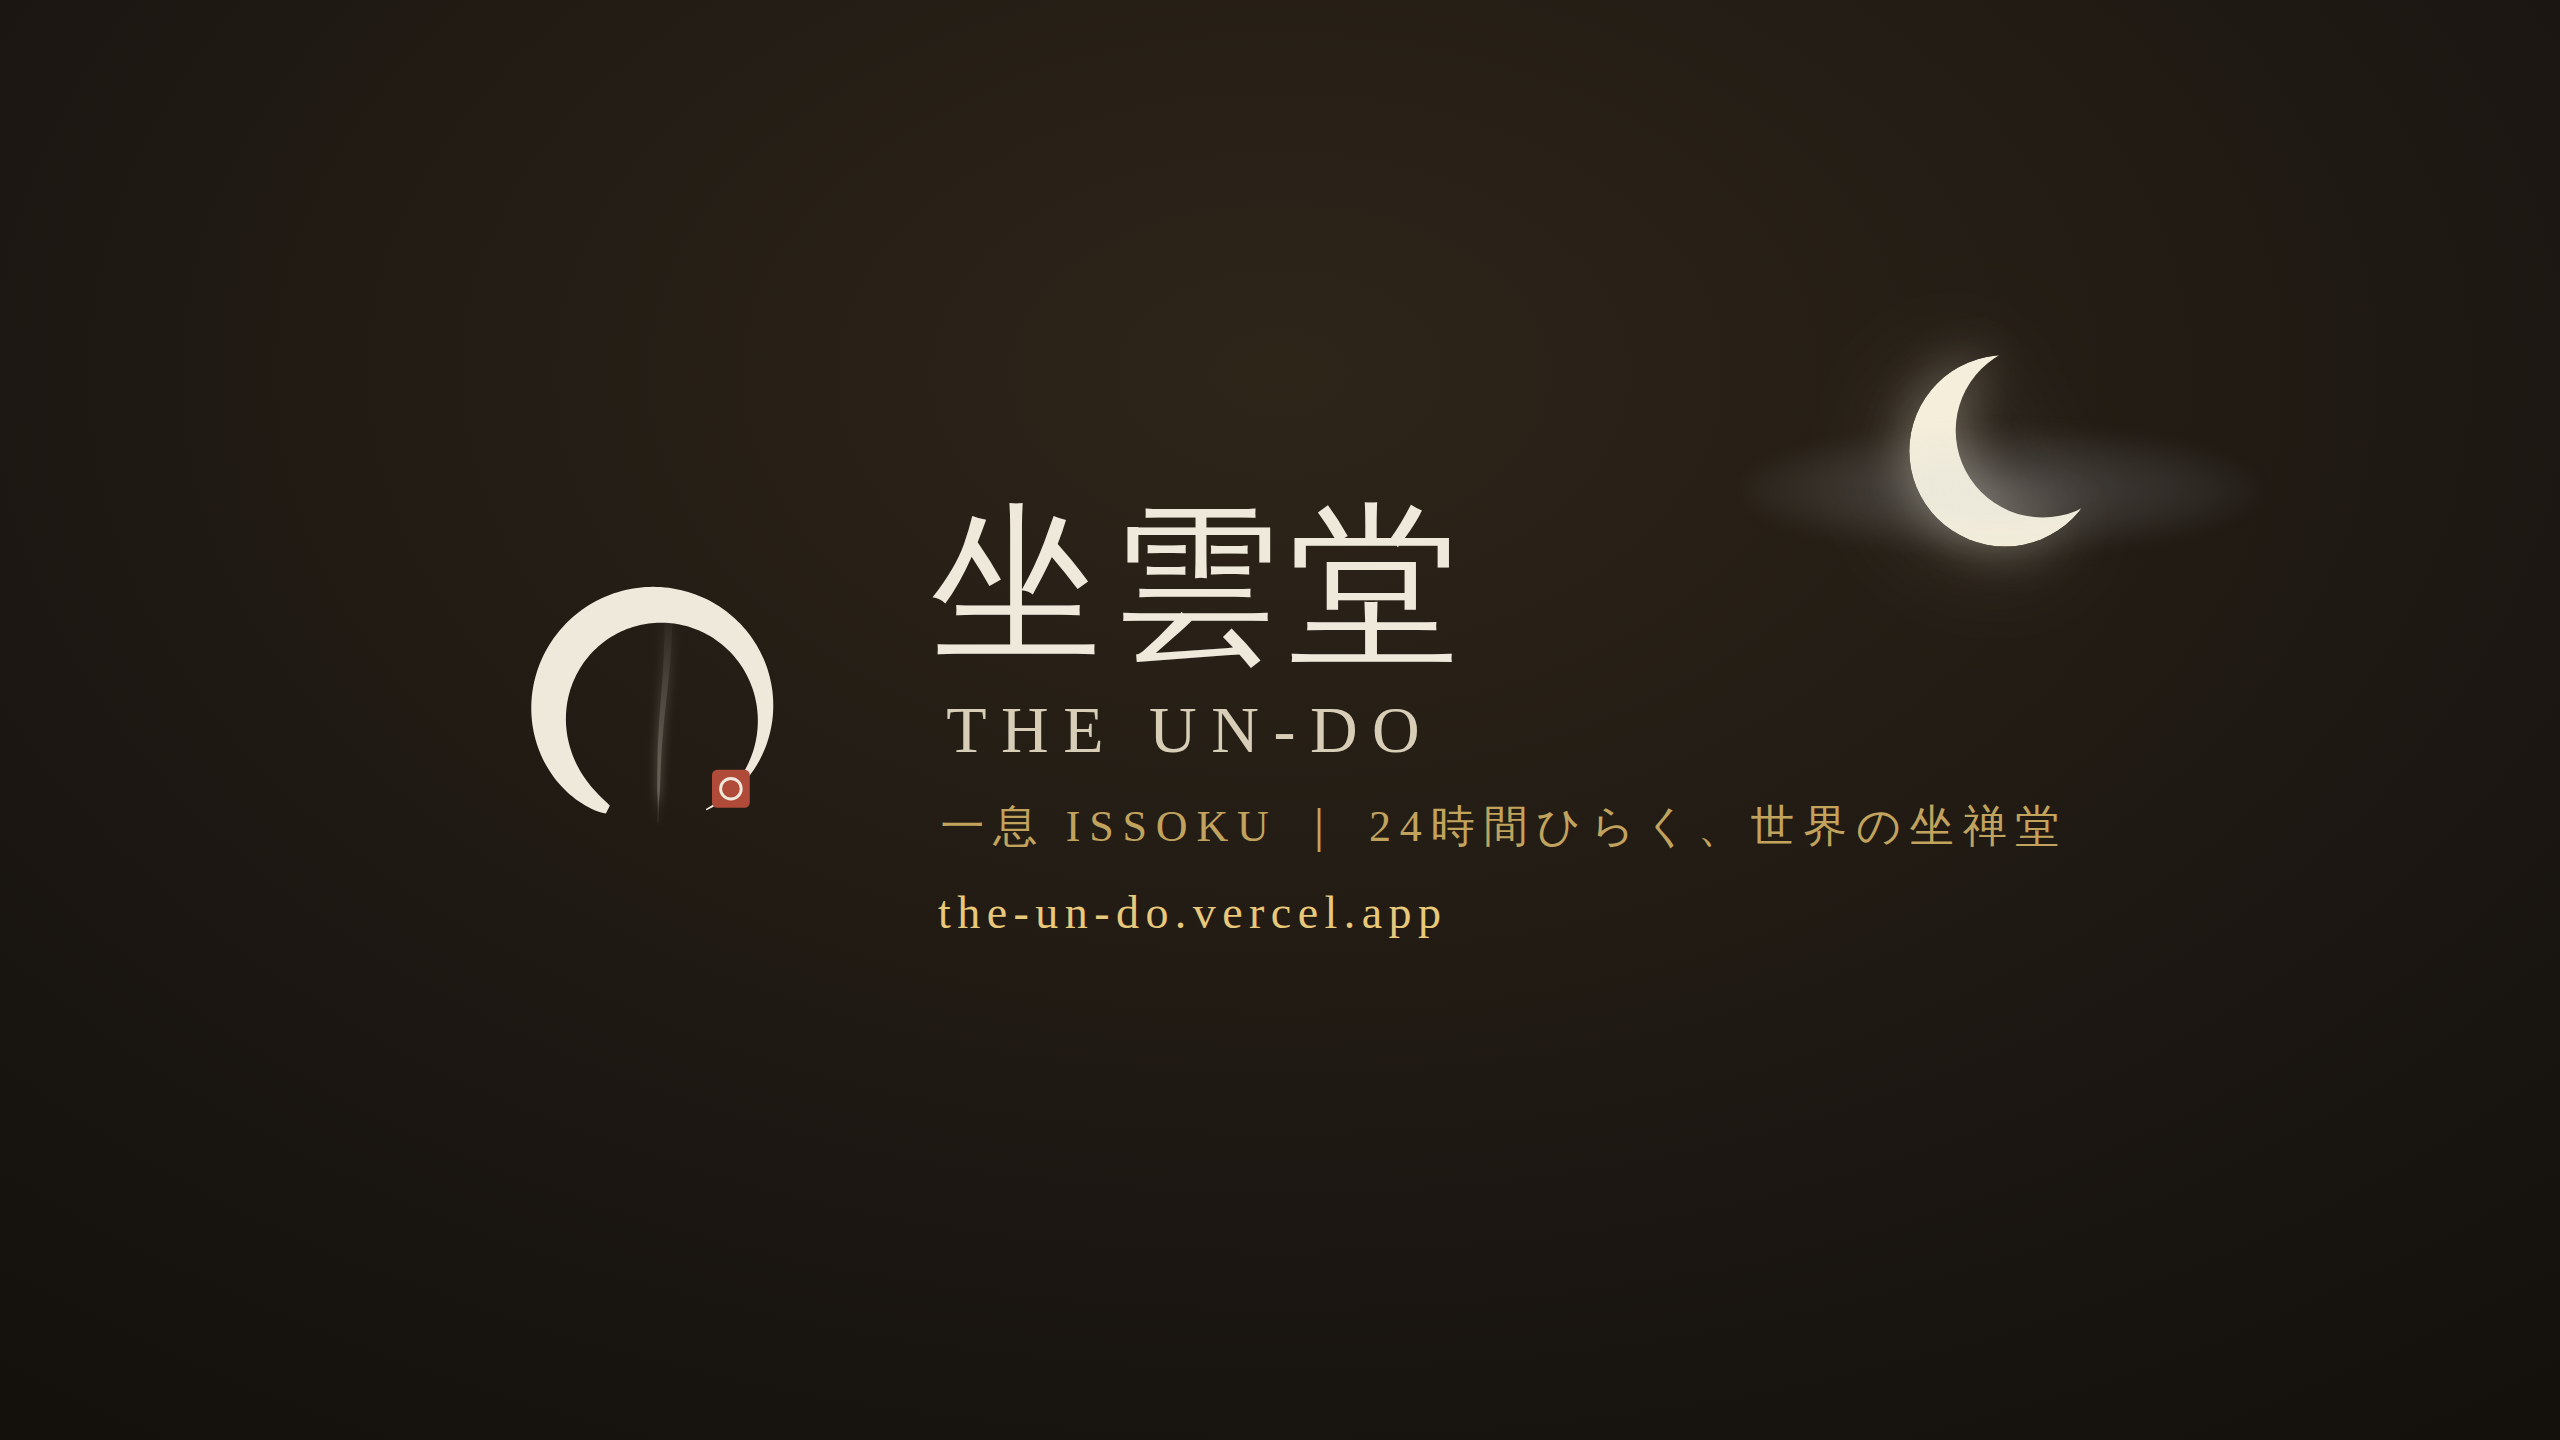
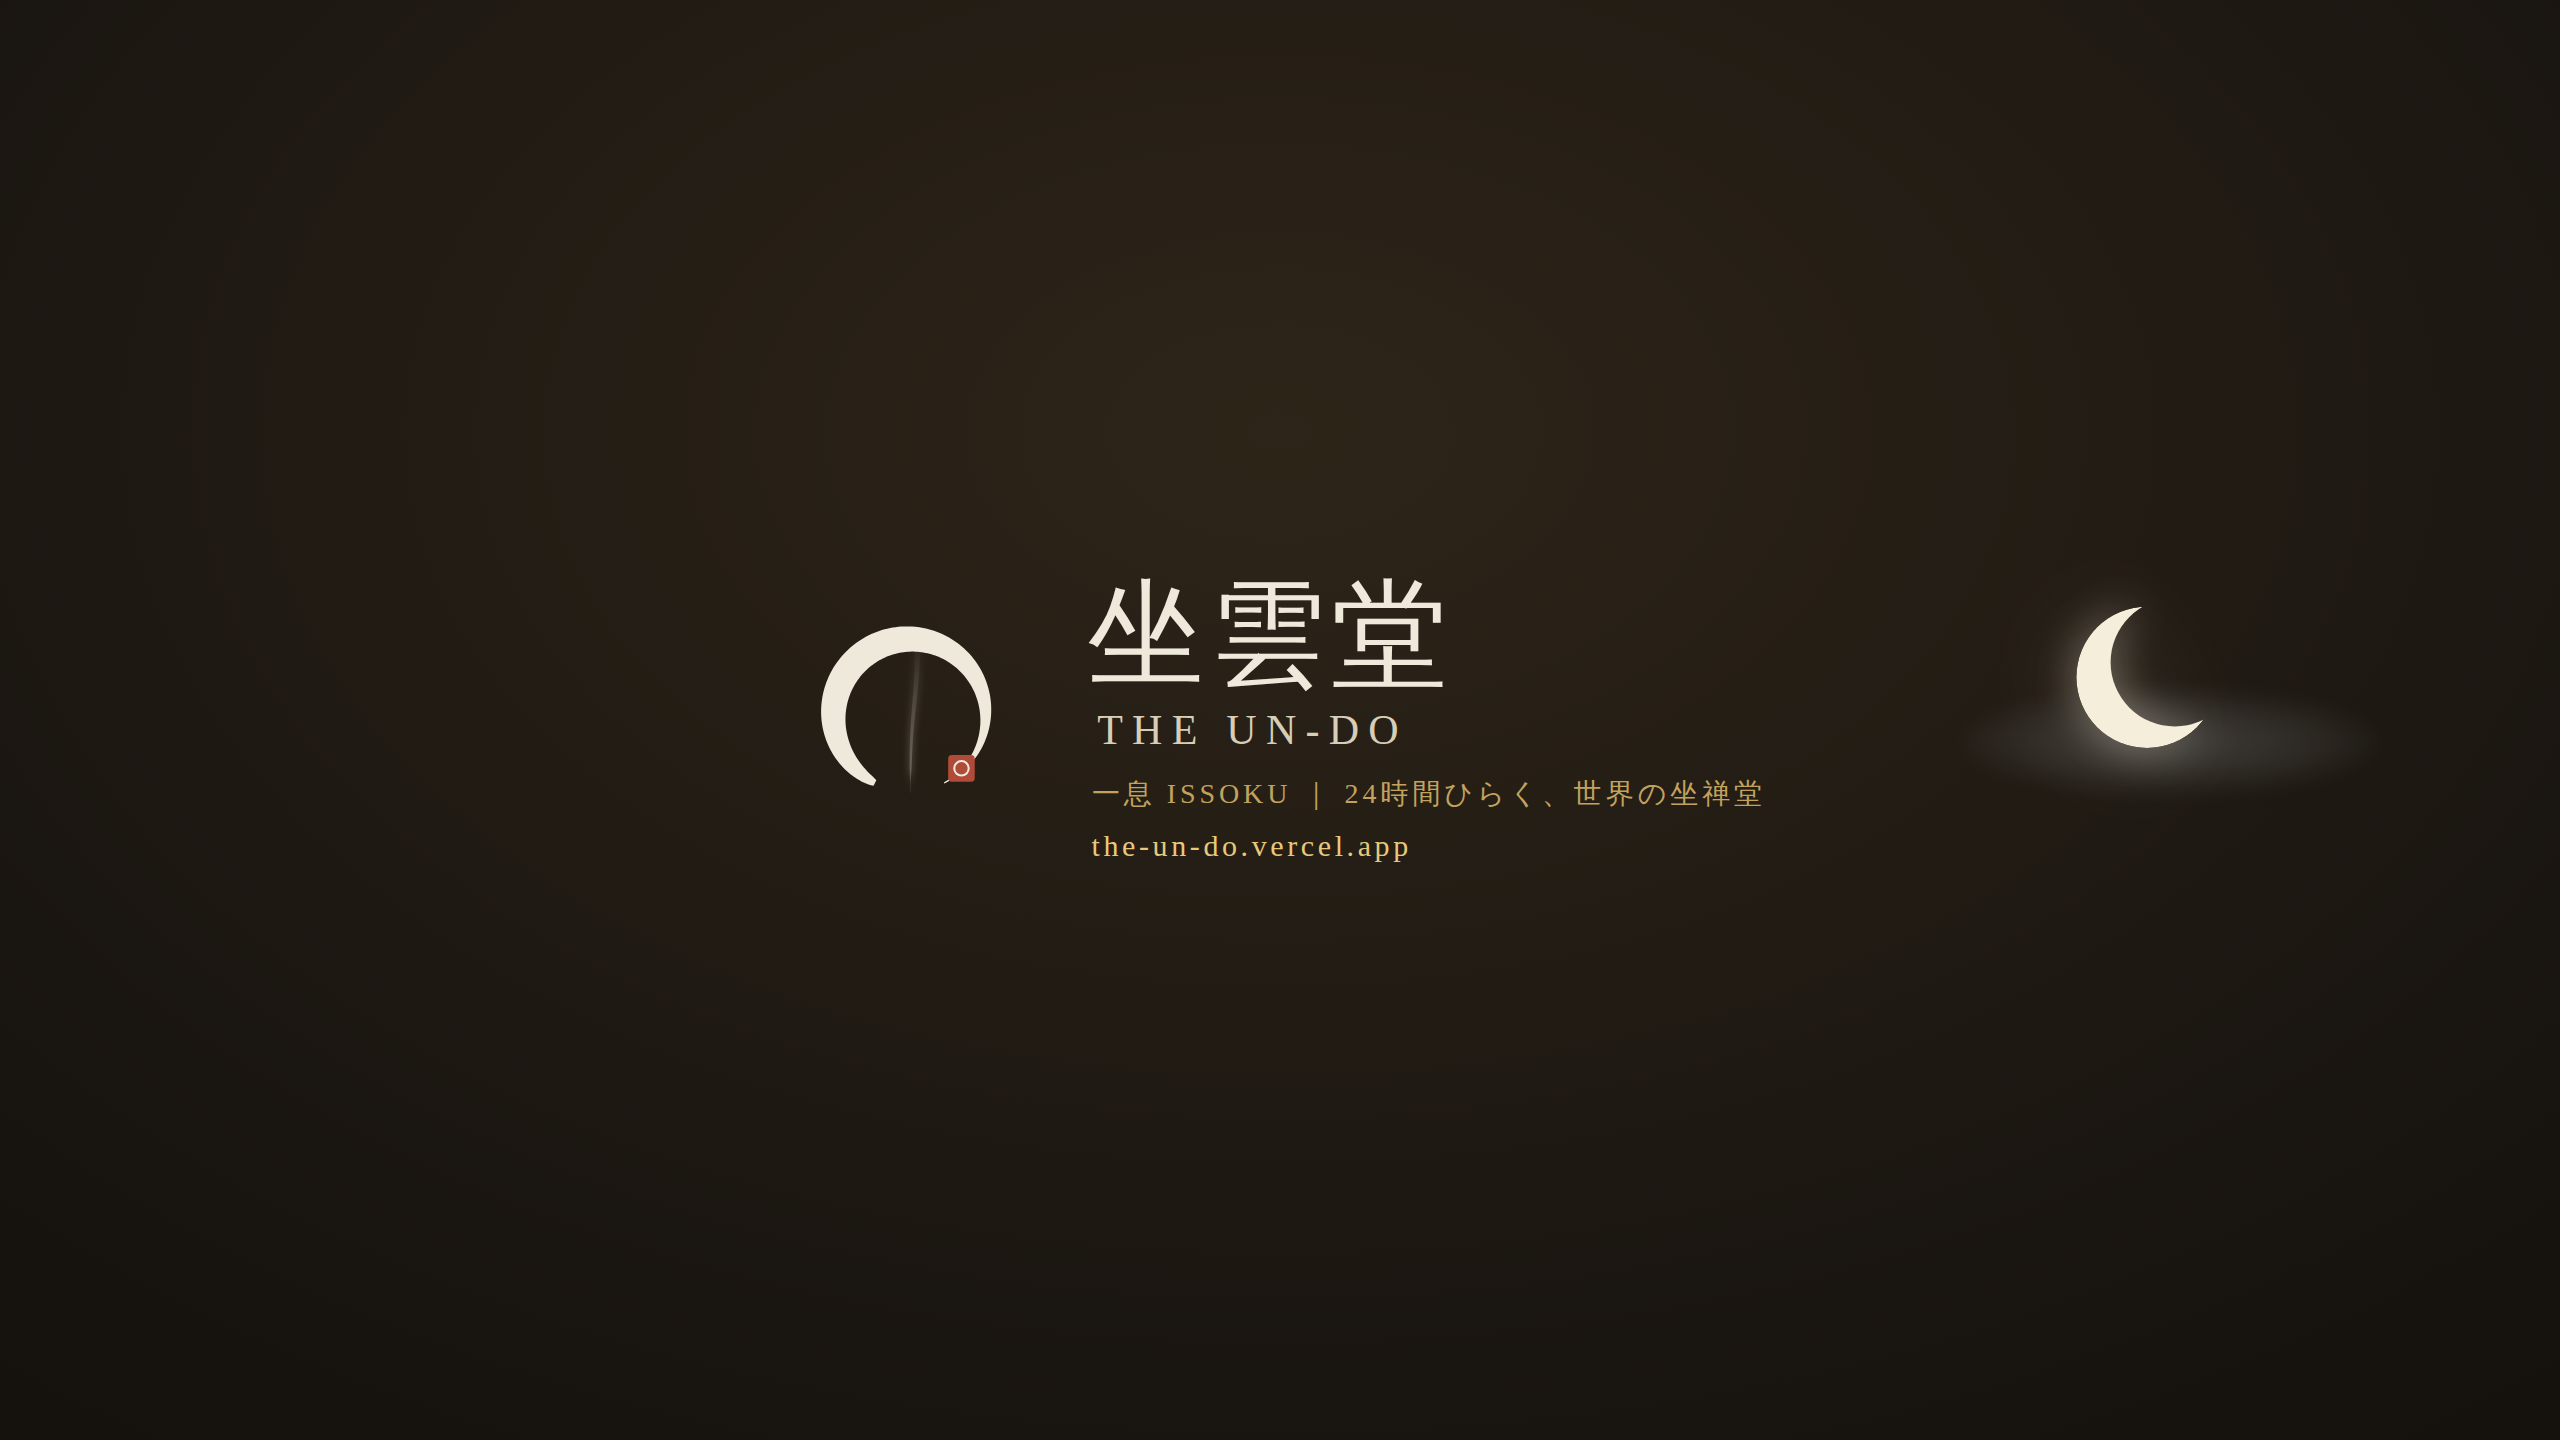
YouTubeバナーをセーフエリア準拠に再構成
文字・ロゴ（円相＋坐雲堂／THE UN-DO＋一息ISSOKU＋URL）を中央の
「全デバイス安全域」1235×338 に収め、スマホでも見切れないように。
三日月はPC/TV表示帯（中央±約210px）右側へ移し装飾とする。
Playwrightで安全域オーバーレイを重ね、収まりを確認。

Claude-Session: https://claude.ai/code/session_01Bwk76KsqtWFGpB9v5YCFbq

diff --git a/assets/youtube/banner.html b/assets/youtube/banner.html
@@ -1,29 +1,32 @@
 <!doctype html><html><head><meta charset="utf-8"><style>
   html,body{margin:0;width:2560px;height:1440px;overflow:hidden}
-  .b{width:2560px;height:1440px;position:relative;display:flex;align-items:center;justify-content:center;
-     background:radial-gradient(115% 130% at 50% 26%, #2e2519 0%, #181410 54%, #0c0905 100%);
+  .b{width:2560px;height:1440px;position:relative;
+     background:radial-gradient(120% 135% at 50% 30%, #2e2519 0%, #181410 52%, #0c0905 100%);
      font-family:'Hiragino Mincho ProN','Yu Mincho','Noto Serif CJK JP',serif; overflow:hidden}
-  .moon{position:absolute; top:300px; left:1860px; width:290px; height:290px}
-  .moon svg{width:100%;height:100%;filter:drop-shadow(0 0 26px rgba(244,238,218,.4)) drop-shadow(0 0 60px rgba(244,238,218,.18))}
+  /* 月＝装飾。PC/TVの表示帯（中央±約210px）右側に置く（モバイル安全域の外） */
+  .moon{position:absolute; top:566px; left:2040px; width:214px; height:214px}
+  .moon svg{width:100%;height:100%;filter:drop-shadow(0 0 22px rgba(244,238,218,.4)) drop-shadow(0 0 52px rgba(244,238,218,.16))}
   .cloud{position:absolute; border-radius:50%; filter:blur(10px);
-    background:radial-gradient(ellipse at center, rgba(206,212,222,.22), rgba(206,212,222,.08) 55%, transparent 75%)}
-  .cl1{width:520px;height:120px;left:1740px;top:430px}
-  .row{display:flex;align-items:center;gap:110px;z-index:2}
-  .h{color:#efe9dc;font-size:170px;letter-spacing:.05em;line-height:1;font-weight:500}
-  .h .lat{display:block;color:#d8cdb6;font-size:66px;letter-spacing:.22em;margin-top:26px;padding-left:.22em}
-  .s{color:#c2a35e;font-size:44px;letter-spacing:.2em;margin-top:34px;padding-left:.2em}
-  .u{color:#e8c87a;font-size:46px;letter-spacing:.14em;margin-top:30px;padding-left:.14em}
+    background:radial-gradient(ellipse at center, rgba(206,212,222,.2), rgba(206,212,222,.07) 55%, transparent 75%)}
+  .cl1{width:420px;height:104px;left:1960px;top:690px}
+  /* 中央の安全エリア（1235×338）。主要素はこの中だけに置く */
+  .safe{position:absolute; left:50%; top:50%; transform:translate(-50%,-50%);
+    width:1235px; height:338px; display:flex; align-items:center; justify-content:center; gap:62px}
+  .h{color:#efe9dc; font-size:116px; letter-spacing:.05em; line-height:1; font-weight:500}
+  .h .lat{display:block; color:#d8cdb6; font-size:42px; letter-spacing:.22em; margin-top:16px; padding-left:.22em}
+  .s{color:#c2a35e; font-size:28px; letter-spacing:.14em; margin-top:24px; padding-left:.14em}
+  .u{color:#e8c87a; font-size:30px; letter-spacing:.12em; margin-top:16px; padding-left:.12em}
 </style></head><body>
 <div class="b">
+  <div class="cloud cl1"></div>
   <div class="moon">
     <svg viewBox="0 0 100 100" xmlns="http://www.w3.org/2000/svg">
       <defs><mask id="cr"><rect width="100" height="100" fill="#000"/><circle cx="50" cy="52" r="33" fill="#fff"/><circle cx="63" cy="45" r="30" fill="#000"/></mask></defs>
       <circle cx="50" cy="52" r="33" fill="#f4eeda" mask="url(#cr)"/>
     </svg>
   </div>
-  <div class="cloud cl1"></div>
-  <div class="row">
-    <svg width="330" height="330" viewBox="0 0 384 384" xmlns="http://www.w3.org/2000/svg">
+  <div class="safe">
+    <svg width="232" height="232" viewBox="0 0 384 384" xmlns="http://www.w3.org/2000/svg">
       <defs>
         <linearGradient id="smk" x1="0" y1="312" x2="0" y2="52" gradientUnits="userSpaceOnUse">
           <stop offset="0" stop-color="#efe9dc" stop-opacity="0.10"/>